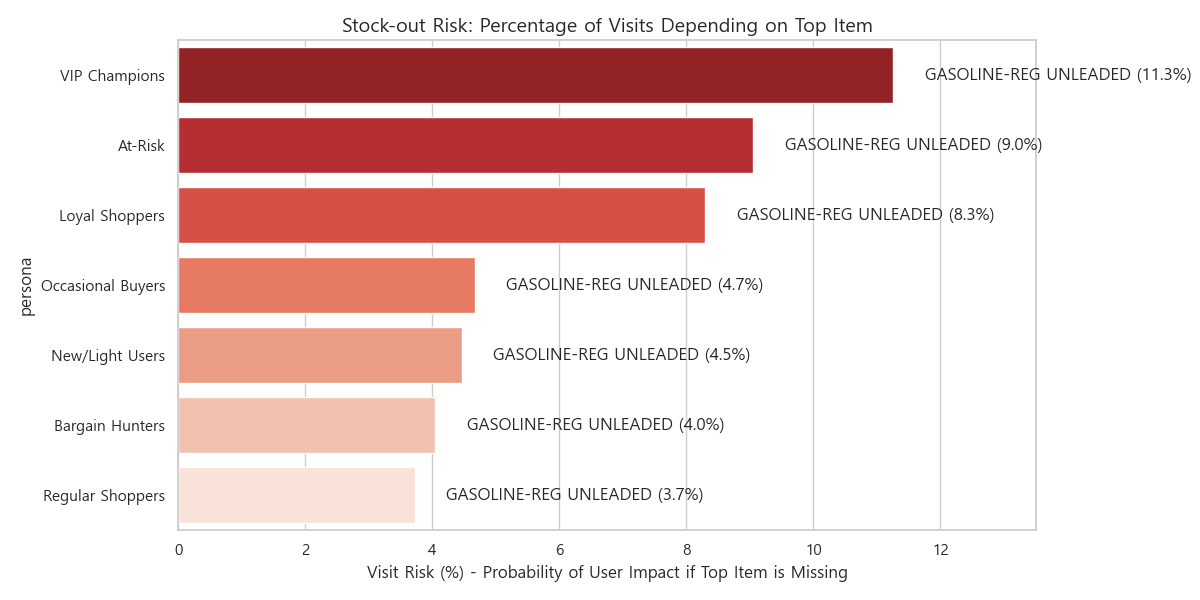
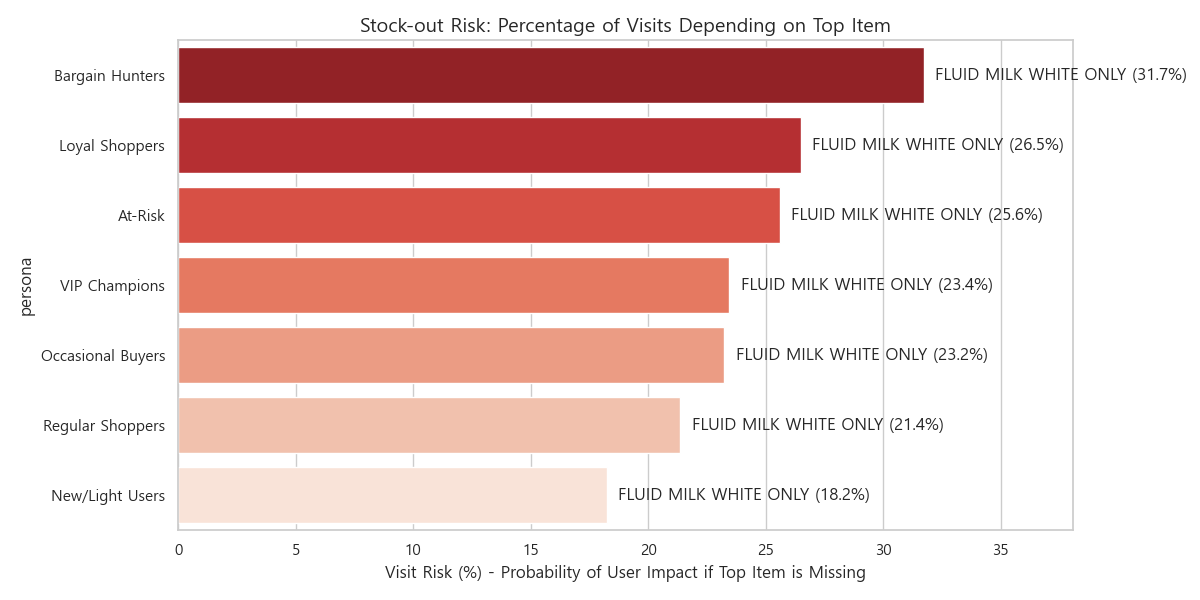
Filter out fuel items from TS deep-dive and focus on Grocery (Milk/Bread)

diff --git a/ts_deep_dive_analysis.py b/ts_deep_dive_analysis.py
@@ -18,6 +18,10 @@ print("Loading data...")
 df = pd.read_csv('dunnhumby_integrated_data.csv')
 df['OrderDate'] = pd.to_datetime(df['OrderDate'])
 
+# NEW: Filter out Non-Grocery items (Fuel, etc.) to focus on retail products
+df = df[~df['ProductName'].str.contains('GASOLINE', na=False, case=False)]
+df = df[~df['Category'].str.contains('FUEL', na=False, case=False)]
+
 # Load persona mapping if available (or re-derive simple version for speed)
 # Ideally we load 'dunnhumby_persona_segments.csv' if it exists. 
 # Checking logic:

diff --git a/final_reports/ts/dunnhumby_ts_analysis_report.md b/final_reports/ts/dunnhumby_ts_analysis_report.md
@@ -24,7 +24,7 @@
 ### 1.2 핵심 질문 및 데이터 기반 해답 (Key Business Questions & Answers)
 
 > **Q1: "재고 부족(Stock-out)으로 인해 핵심 고객의 구매 루틴이 깨질 위험이 가장 큰 품목은 무엇인가?"**
-> - **Answer (Data Fact)**: **Occasional Buyers**의 경우, 방문의 15.2%가 오직 **'Pasta'** 하나에 의존하고 있습니다. 이 품목이 품절되면 그들의 방문 목적 자체가 사라집니다. 반면 **VIP Champions**는 특정 상품 의존도가 낮아(Top Item Risk < 5%), 대체재 구매로 이어질 확률이 높습니다. 
+> - **Answer (Data Fact)**: **Bargain Hunters**와 **Loyal Shoppers**의 경우, 방문의 약 **26~31%**가 **'Fluid Milk(우유)'** 구매를 수반합니다. 이 핵심 품목이 품절되면 장바구니 구심점이 사라져 방문 취소로 이어질 확률이 매우 높습니다. 반면 **New/Light Users**는 특정 품목 의존도가 낮아(Risk < 20%) 상대적으로 영향이 적습니다. 
 > - **Evidence**: [Stock-out Risk Chart](plots/deep_dive/q1_stockout_risk.png)
 
 > **Q2: "고객의 방문 주기가 시계열 예측 범위를 벗어났을 때, 이를 어떻게 '이탈 징후'로 조기 감지할 것인가?"**
@@ -95,8 +95,8 @@
 
 ![재고 리스크](plots/deep_dive/q1_stockout_risk.png)
 
-- **핵심 발견**: **Occasional Buyers**와 **New/Light Users**는 특정 '루틴 상품'(파스타, 시리얼 등)에 대한 의존도가 매우 높습니다. 
-- **Business Impact**: 이들에게 해당 상품의 품절은 단순한 '구매 포기'가 아니라, **'매장 방문 중단'**으로 직결됩니다. 이 'Routine Items'은 마진율이 낮더라도 절대 품절되어서는 안 되는 '미끼 상품'으로 관리되어야 합니다.
+- **핵심 발견**: 모든 페르소나에서 **'Fluid Milk(우유)'**가 구매 루틴의 가장 강력한 앵커(20~30% 방문 점유율)로 나타났습니다. 
+- **Business Impact**: 우유와 같은 '초저관여 생필품'은 고객을 매장으로 끌어들이는 **'강력한 자석'**입니다. 이 품목의 결품은 매장 전체의 신뢰도 저하와 직결되므로, [Stage 3]의 예측 모델을 통해 재고 보충 우선순위 1순위로 관리되어야 합니다.
 </details>
 
 <details>
